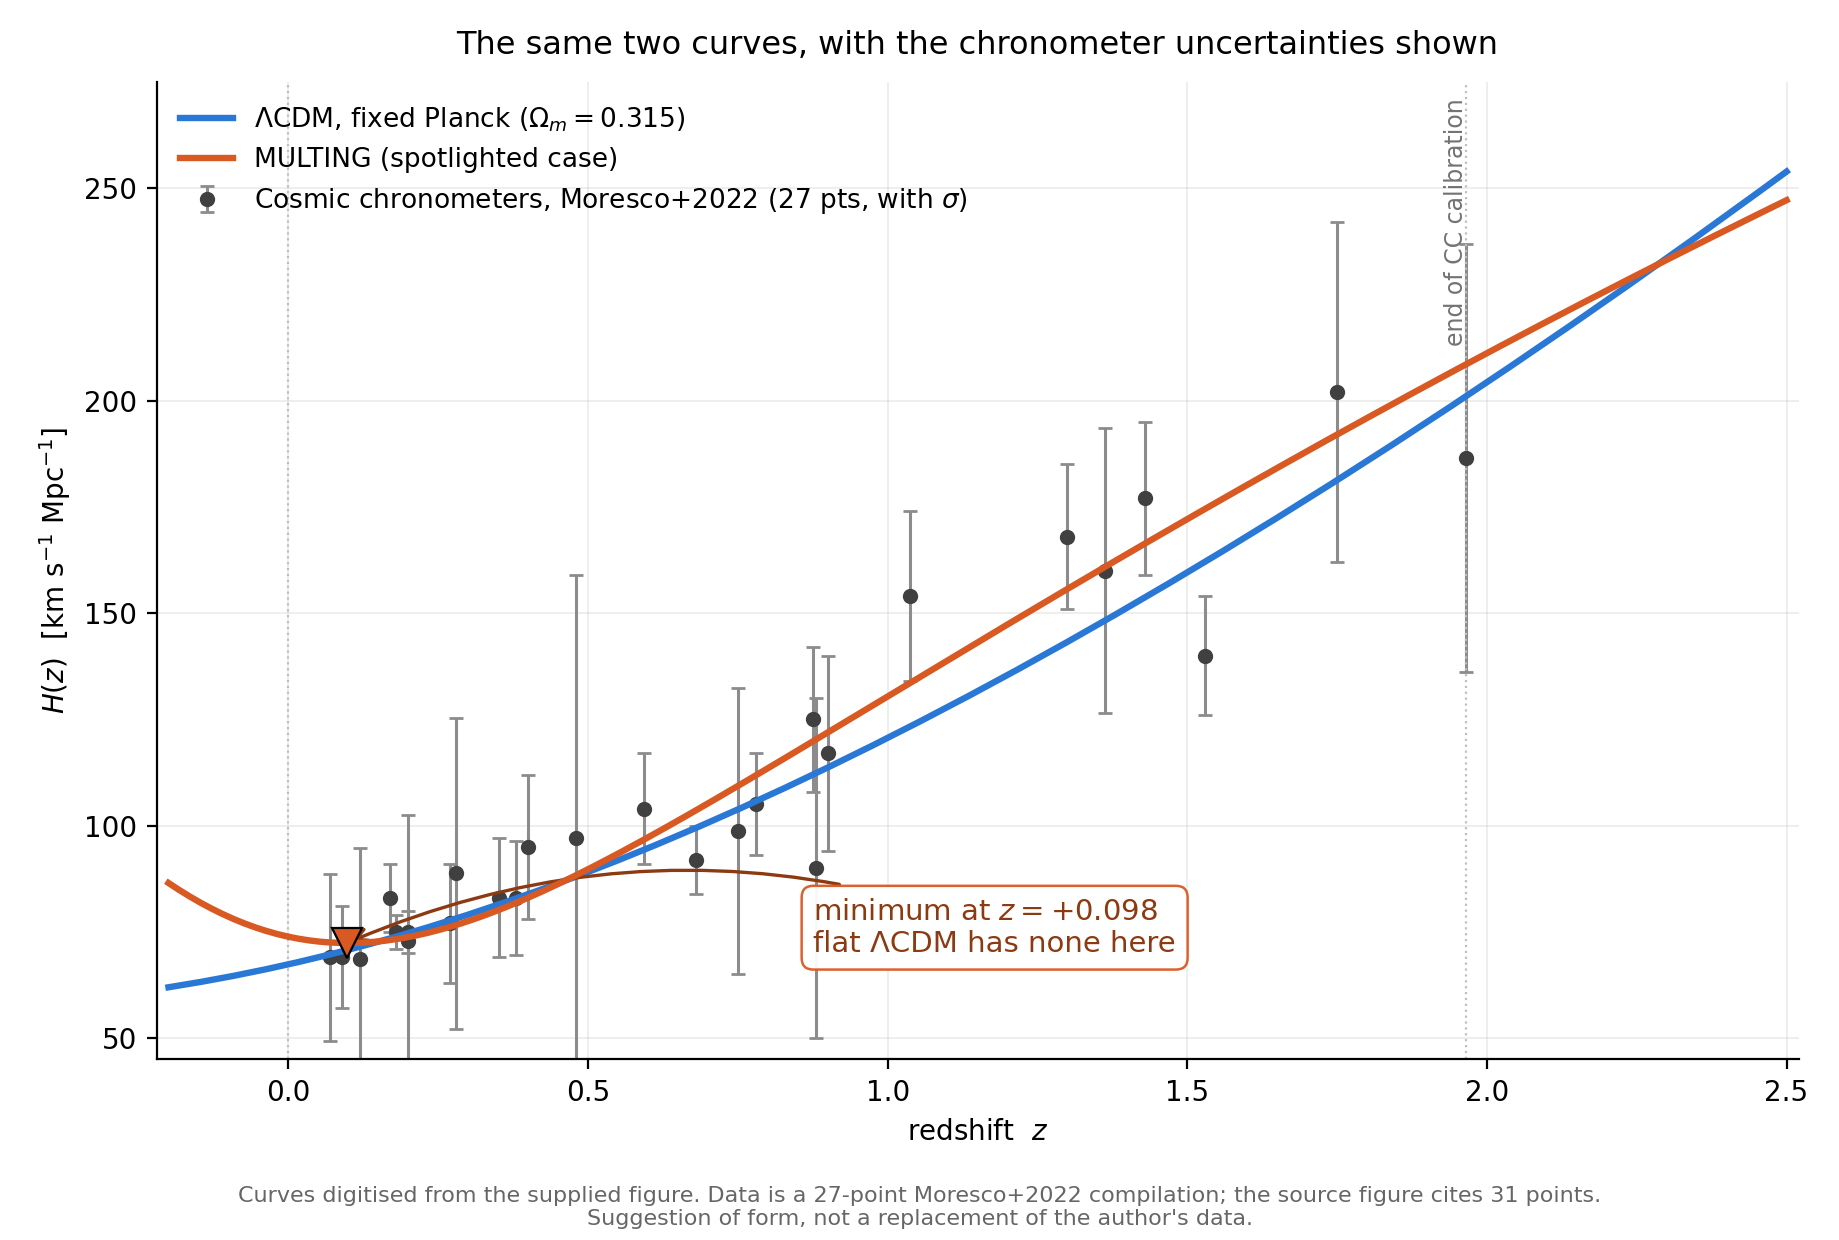
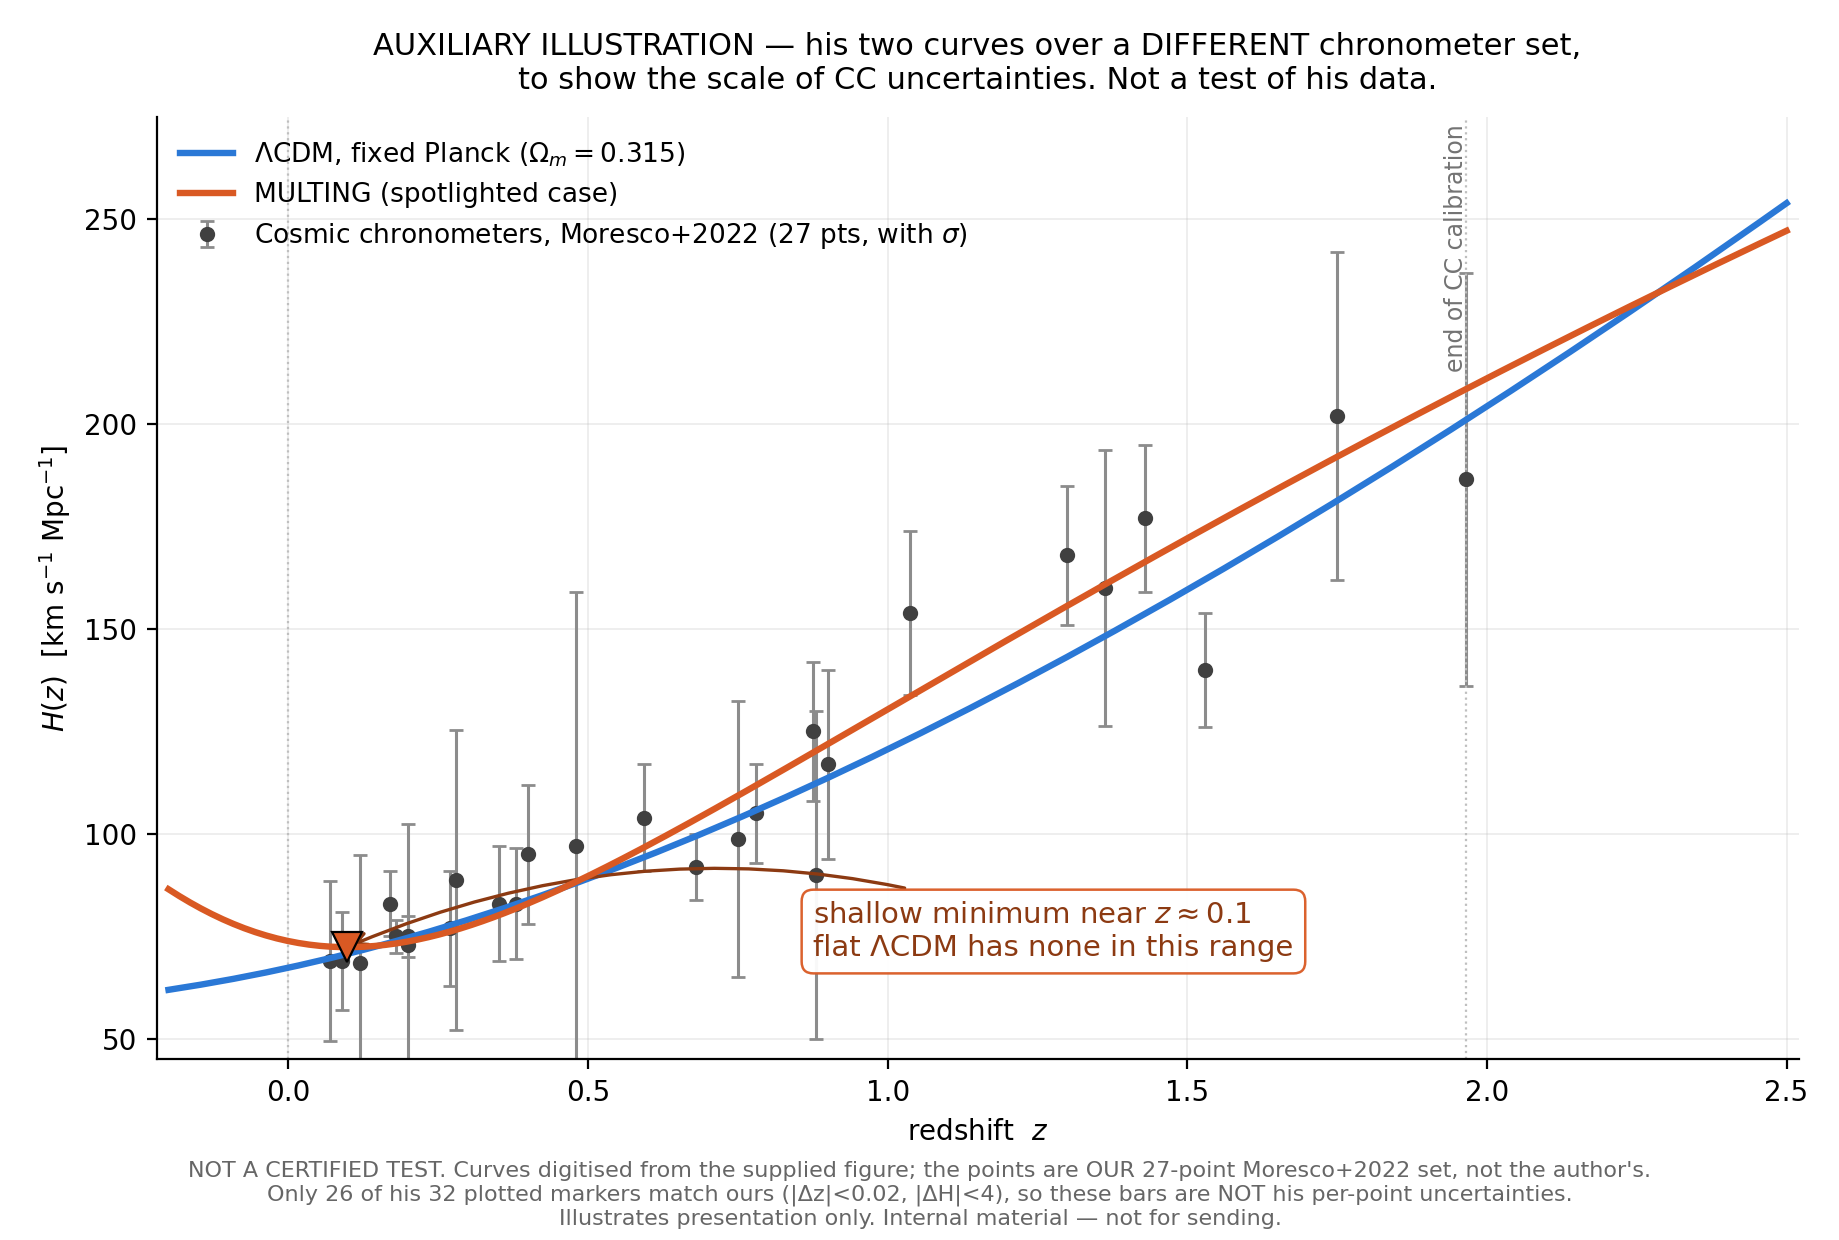
figure: mark the error-bar plot as auxiliary and strip its false precision
Agreed with the reviewer's status (AUXILIARY ILLUSTRATION / NOT A CERTIFIED
TEST) and found two problems in my own artifact that make it dangerous to
retain as-is -- it looked finished.

1. The annotation read 'minimum at z = +0.098' -- exactly the false
   precision we had just removed from the letter. A later session would
   have re-quoted three significant figures straight off the figure. Now
   'shallow minimum near z ~ 0.1'. (Tested: H stays within 0.2 km/s/Mpc of
   the minimum across z in [0.062, 0.136], width 0.074.)

2. The title said 'with THE chronometer uncertainties shown', which reads
   as HIS uncertainties. They are ours. Title now says so explicitly, and
   the footer carries the measured match rate: 26 of his 32 plotted
   markers agree with our set (|dz|<0.02, |dH|<4), so ~6 come from a source
   we do not hold and these bars are NOT his per-point sigmas.

Footer now also states 'Internal material -- not for sending' on the face
of the figure, so the constraint travels with the file rather than living
only in a commit message.

Status unchanged: withheld from the letter, retained as internal material.

diff --git a/scripts/plot_for_tjb_with_errorbars.py b/scripts/plot_for_tjb_with_errorbars.py
@@ -106,7 +106,7 @@ def main() -> int:
 
     ax.plot([z_min], [h_min], "v", ms=11, color="#d95923", mec="k", mew=0.8, zorder=6)
     ax.annotate(
-        f"minimum at $z={z_min:+.3f}$\nflat ΛCDM has none here",
+        "shallow minimum near $z\\approx0.1$\nflat ΛCDM has none in this range",
         xy=(z_min, h_min),
         xytext=(0.40, 0.11),
         textcoords="axes fraction",
@@ -141,15 +141,18 @@ def main() -> int:
         ax.spines[sp].set_visible(False)
     ax.legend(loc="upper left", frameon=False, fontsize=9.5)
     ax.set_title(
-        "The same two curves, with the chronometer uncertainties shown",
-        fontsize=11.5,
+        "AUXILIARY ILLUSTRATION — his two curves over a DIFFERENT chronometer set,\n"
+        "to show the scale of CC uncertainties. Not a test of his data.",
+        fontsize=11,
         pad=10,
     )
     fig.text(
         0.5,
         0.012,
-        "Curves digitised from the supplied figure. Data is a 27-point Moresco+2022 compilation; "
-        "the source figure cites 31 points.\nSuggestion of form, not a replacement of the author's data.",
+        "NOT A CERTIFIED TEST. Curves digitised from the supplied figure; the points are OUR 27-point "
+        "Moresco+2022 set, not the author's.\nOnly 26 of his 32 plotted markers match ours "
+        "(|Δz|<0.02, |ΔH|<4), so these bars are NOT his per-point uncertainties.\n"
+        "Illustrates presentation only. Internal material — not for sending.",
         ha="center",
         fontsize=8,
         color="0.4",
